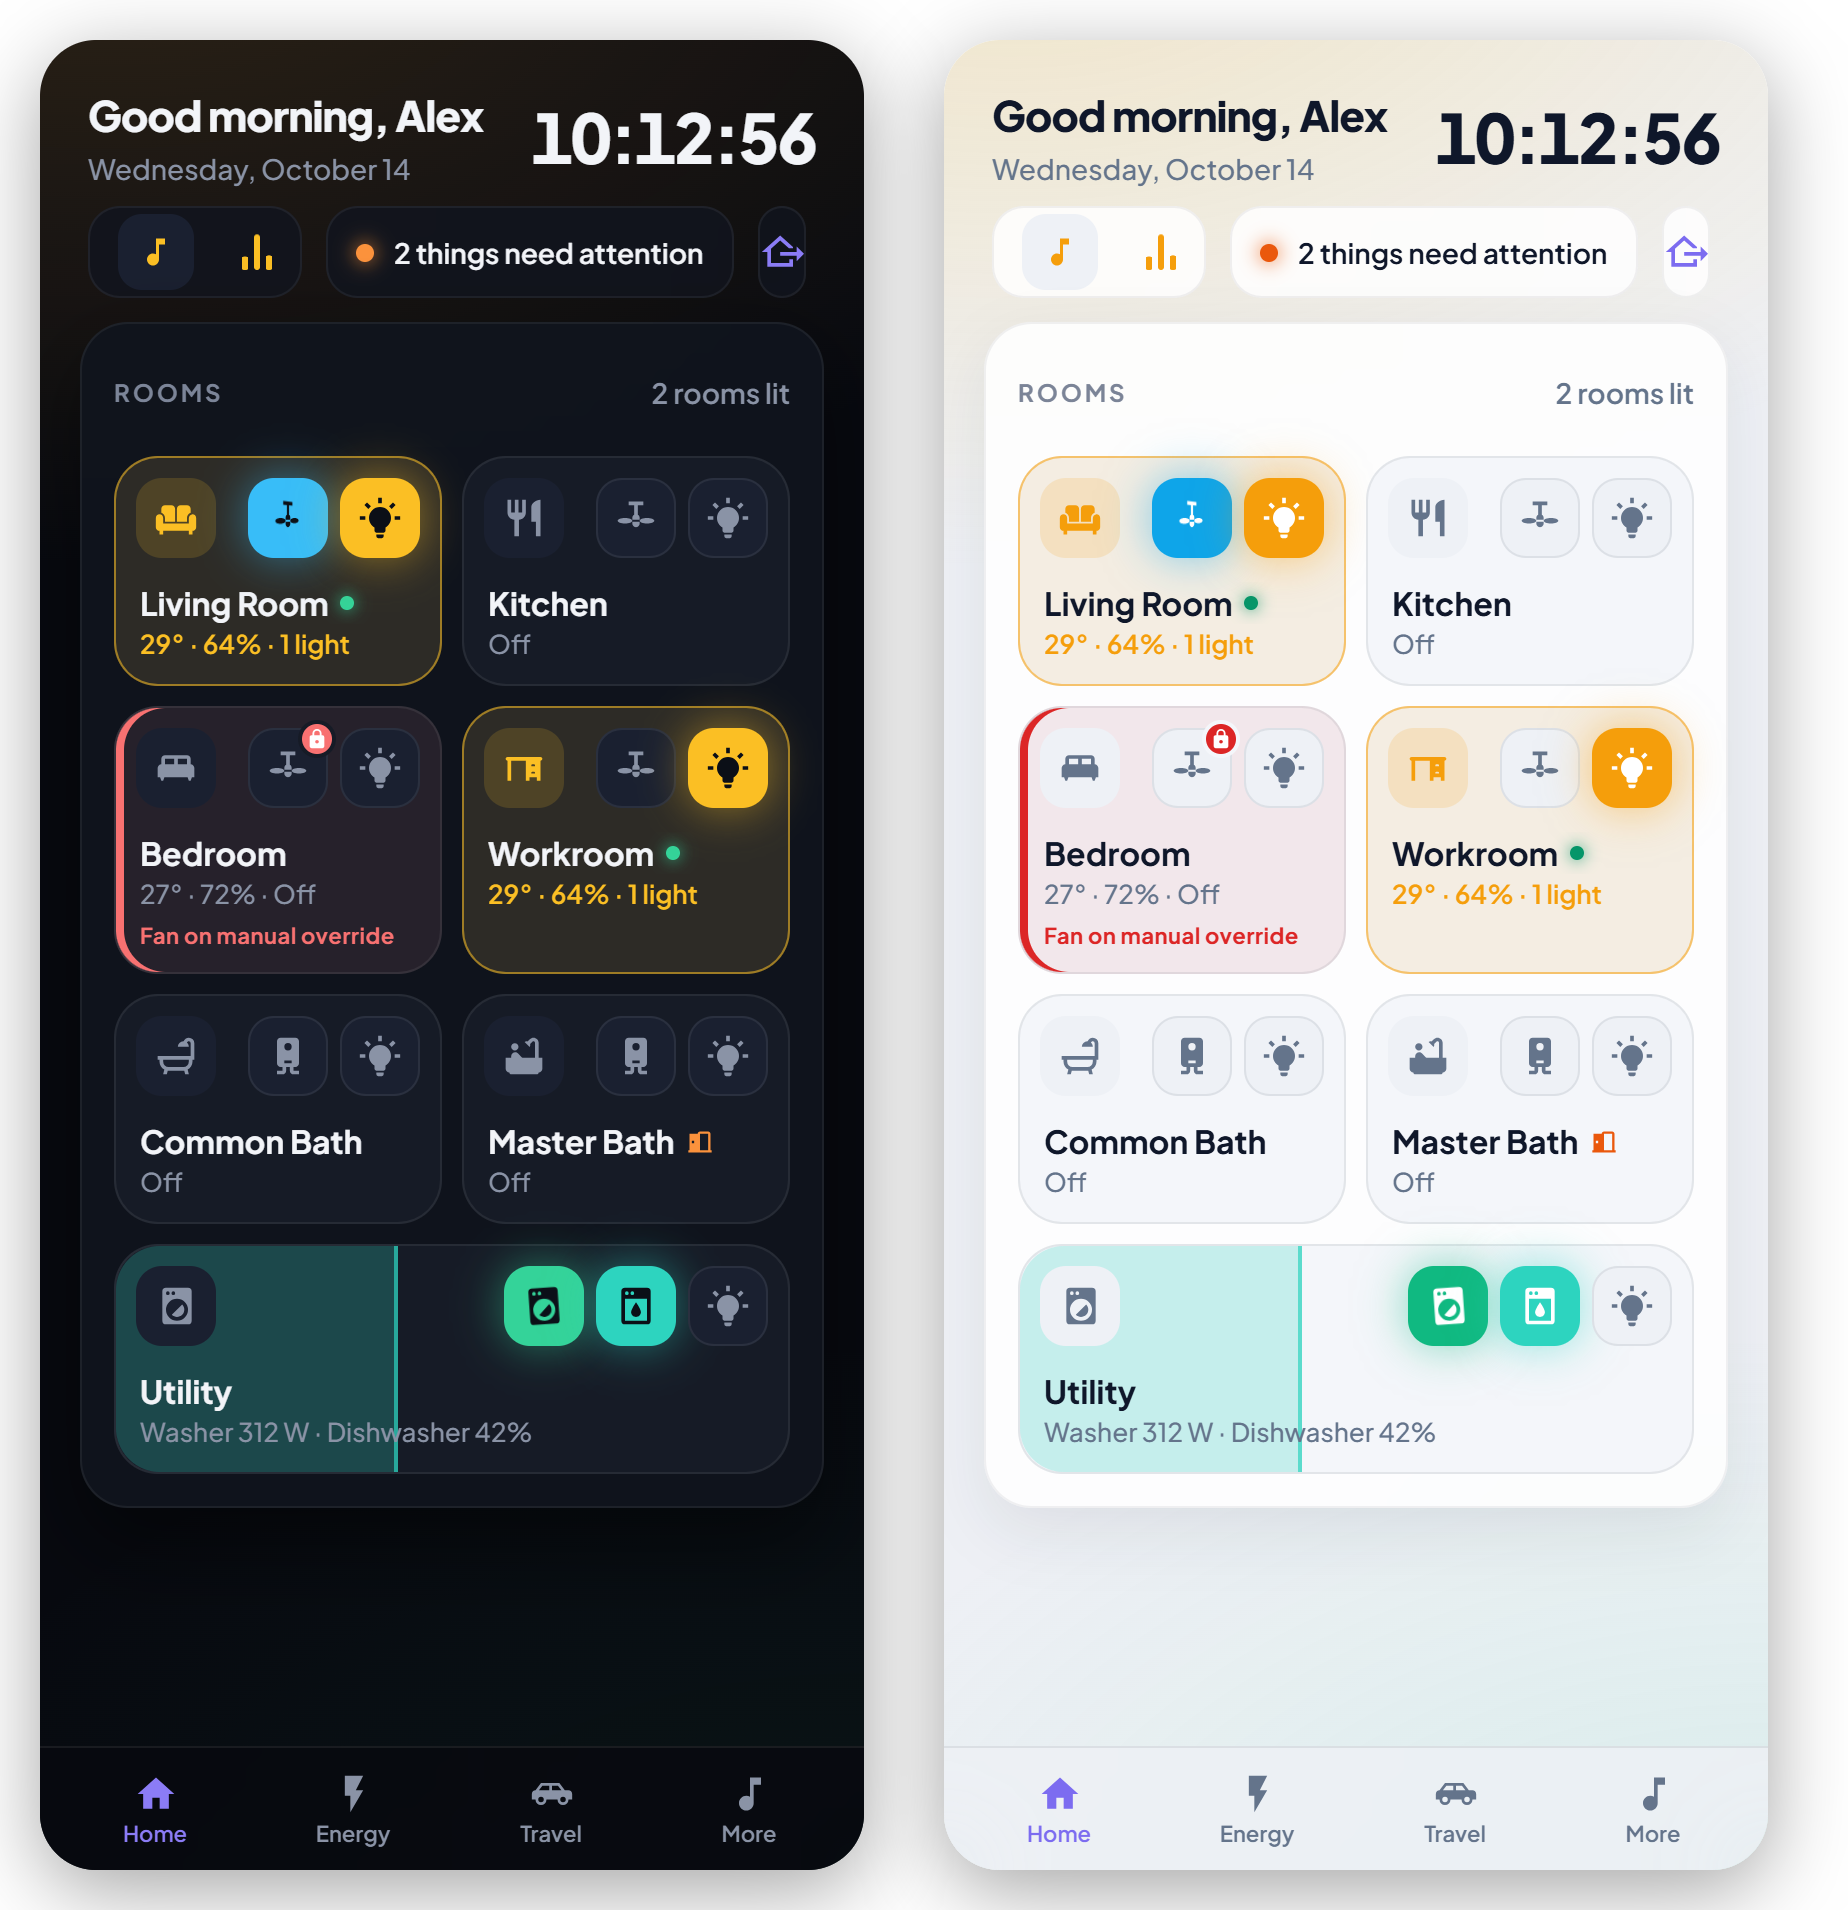
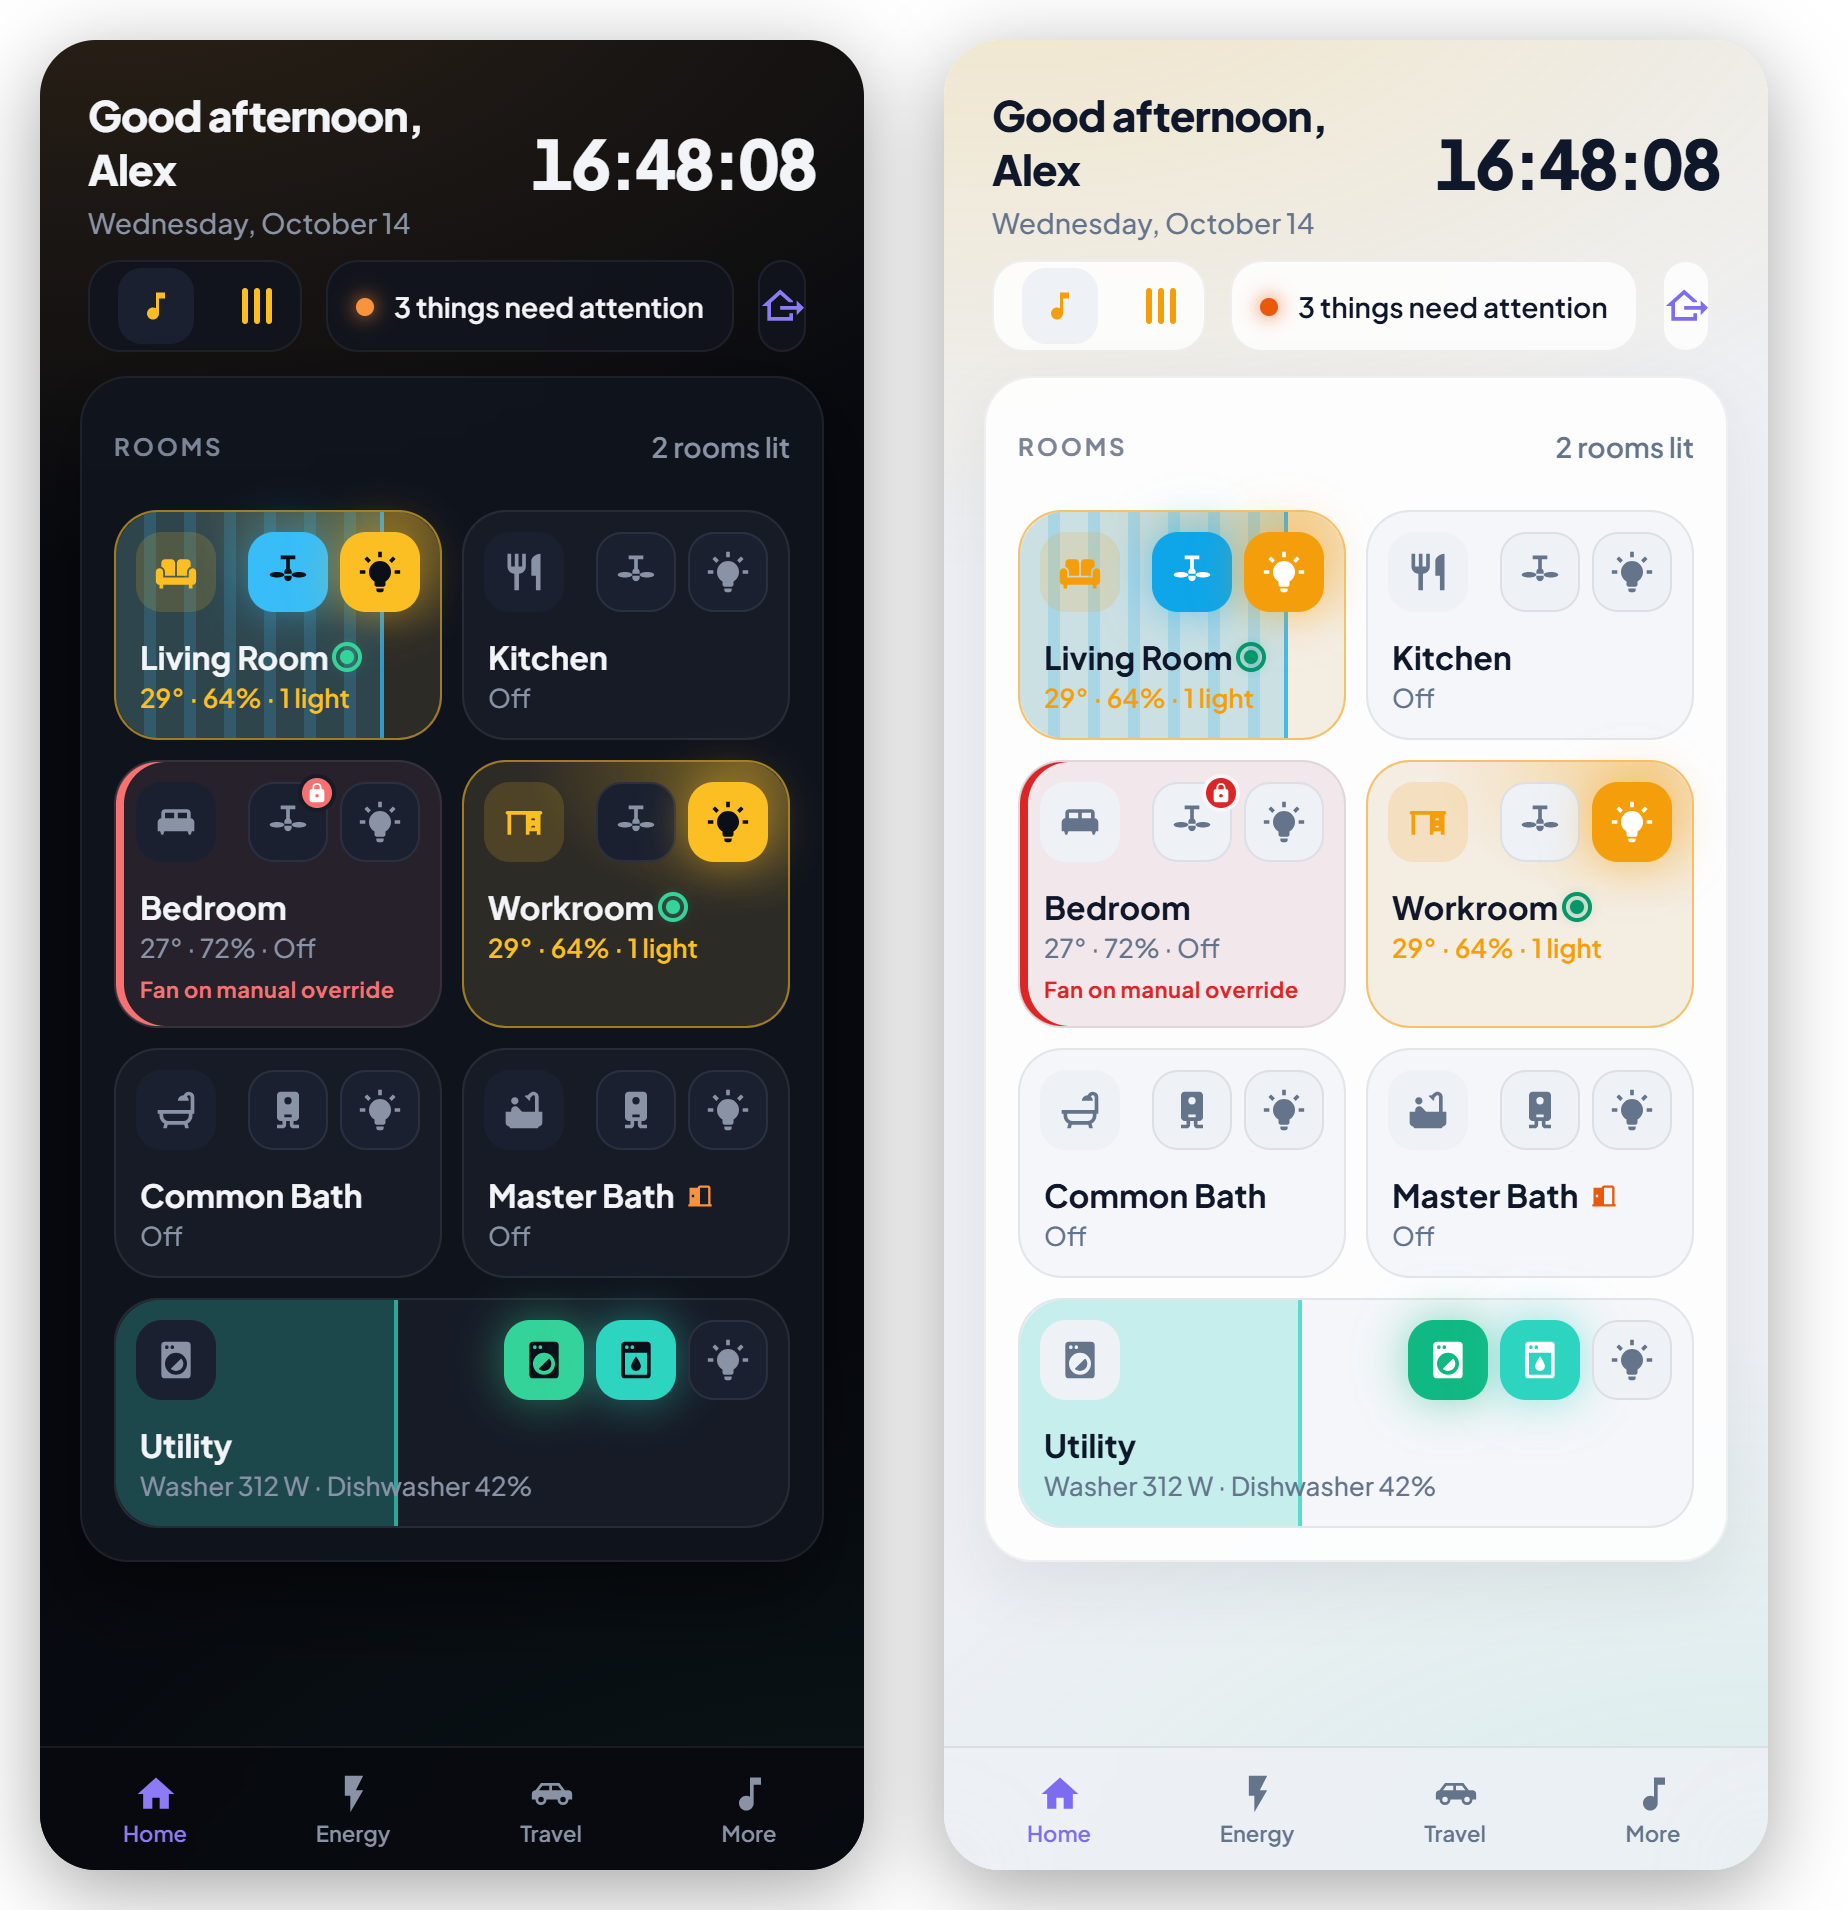
docs: refresh README screenshots and highlights (#21)
New mock screenshots (reduced motion, frozen data) showing the room-card
motion, energy particles and sun/moon arc; README highlights mention the
new features. Docs only, no release.

🤖 Generated with [Claude Code](https://claude.com/claude-code)

Changed region(s): [[0.5244, 0.0309, 0.9562, 0.834], [0.0308, 0.0309, 0.4627, 0.8031]]

diff --git a/README.md b/README.md
@@ -17,8 +17,10 @@ A fast, kiosk-friendly Home Assistant dashboard written in React. It replaces Lo
 
 - **Three layouts**: a 3-column tablet kiosk, a 4-column desktop, and a phone layout with bottom tabs (`?layout=tablet|desktop|phone`, or picked from the viewport).
 - **Rooms at a glance**: one-tap lights and fan/geyser buttons, presence, temperature and humidity. Each room's fan speed is drawn across its card; slide sideways to change it.
-- **Live energy tree**: the top consumers right now. New smart plugs are discovered automatically, with no list to maintain.
-- **Weather** with animated skies, plus a car card, commute traffic (Google Routes), media, appliances and a meal plan.
+- **Live energy tree**: particles flow to the top consumers right now, faster for bigger loads; 30 days of daily kWh in the Power popup. New smart plugs are discovered automatically.
+- **Weather** with animated skies, a sun/moon arc and a rain-coming heads-up, plus a car card, commute traffic (Google Routes), media, appliances and a meal plan.
+- **Alive, not busy**: lit rooms glow, fan stripes speed up with the fan, cards zoom into their details, and banners (with a soft chime) say when the washer is done or a door is left open.
+- **Night screen** on the kiosk: a dim, burn-in-safe clock after a few idle minutes at night.
 - **Instant loads**: a single self-contained file that paints from a cached snapshot in ~80 ms, then syncs live over the HA WebSocket API.
 - **Themes** follow the sun (`?theme=auto|dark|light`).
 - **Installable on the phone**: open it over HTTPS and choose "Install app" / "Add to Home Screen" for a full-screen app.
